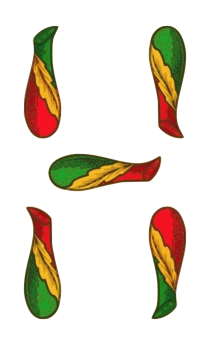
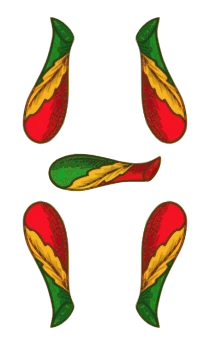
fix: no drawn Scopa games, tied games in the stats, Napoletane 5 and 7 of clubs
GitHub issue #2.

- Scopa ends only when a player reaches the target with the higher score;
  with equal scores another hand is dealt (client reducer and multiplayer
  server), the round summary says so, and two reducer tests cover it.
- The Scopa statistics derive win, loss or tie from the stored scores instead
  of the boolean that counted a tie as a loss; ties get their own count and
  the history shows them as ties. Briscola already recorded ties.
- Napoletane 5 of clubs: the outer batons lean towards the centre line with
  their tips hooking outward and the right column stands the right way up;
  7 of clubs: the middle column stands the right way up, the right column
  hooks inward and the horizontal baton is the right way up. Rebuilt from the
  sprite by local/napoletane/fix-clubs.py (see docs/architecture.md).

diff --git a/src/games/scopa/ScopaApp.tsx b/src/games/scopa/ScopaApp.tsx
@@ -2,7 +2,7 @@ import { useState, useMemo, useCallback, useEffect, useLayoutEffect, useRef } fr
 import { useGame, clearPersistedGame } from './hooks/useGame';
 import { useSettings } from '../../hooks/useSettings';
 import { useSound } from '../../hooks/useSound';
-import { useStats } from '../../hooks/useStats';
+import { useStats, gameOutcome } from '../../hooks/useStats';
 import { useMultiplayer } from '../../hooks/useMultiplayer';
 import { GameLayout } from '../../components/Layout/GameLayout';
 import { PlayerHand } from '../../components/Table/PlayerHand';
@@ -214,6 +214,7 @@ function ScopaApp({ onSwitchGame, pendingInvite, onInviteHandled }: GameAppProps
           gamesPlayed: s.gamesPlayed,
           wins: s.wins,
           losses: s.losses,
+          ties: s.ties,
           winRate: s.winRate,
         },
       };
@@ -240,7 +241,7 @@ function ScopaApp({ onSwitchGame, pendingInvite, onInviteHandled }: GameAppProps
           timestamp: g.timestamp,
           playerScore: g.playerScore,
           opponentScore: g.opponentScore,
-          outcome: g.playerWon ? 'win' : 'loss',
+          outcome: gameOutcome(g),
           modeIndicator: indicator,
         };
       });
@@ -2970,6 +2971,11 @@ function ScopaApp({ onSwitchGame, pendingInvite, onInviteHandled }: GameAppProps
       const oppId = myId === 'player1' ? 'player2' : 'player1';
       // Check if this is the final round (game is over after this round)
       const isFinalRound = !!multiplayer.gameEndData;
+      const cumulative = multiplayer.roundEndData.cumulativeScores;
+      const tieBreakAt =
+        !isFinalRound && multiplayer.targetScore && cumulative[myId] === cumulative[oppId] && cumulative[myId] >= multiplayer.targetScore
+          ? multiplayer.targetScore
+          : undefined;
 
       return (
         <DeckProvider deck={settings.deck}>
@@ -2990,6 +2996,7 @@ function ScopaApp({ onSwitchGame, pendingInvite, onInviteHandled }: GameAppProps
             opponentRequestedNextRound={multiplayer.nextRoundRequests.has(oppId)}
             opponentName={multiplayer.opponentNickname || t.common.opponent}
             isGameOver={isFinalRound}
+            tieBreakAt={tieBreakAt}
             onShowGameEnd={multiplayer.clearRoundEnd}
           />
         </DeckProvider>
@@ -3546,6 +3553,11 @@ function ScopaApp({ onSwitchGame, pendingInvite, onInviteHandled }: GameAppProps
           humanScopaCaptures={activeState.players.human.scopaCaptures}
           cpuScopaCaptures={activeState.players.cpu.scopaCaptures}
           isGameOver={activeState.isGameOver}
+          tieBreakAt={
+            !activeState.isGameOver && activeState.scores.human === activeState.scores.cpu && activeState.scores.human >= activeState.targetScore
+              ? activeState.targetScore
+              : undefined
+          }
           onNextRound={handleNextRound}
           onShowGameEnd={showGameEnd}
           player1AIType={isSpectatorMode ? spectatorAIs.player1 : undefined}

diff --git a/src/hooks/useStats.ts b/src/hooks/useStats.ts
@@ -16,7 +16,7 @@ export interface GameRecord {
   playerScore: number;
   /** Opponent's final score */
   opponentScore: number;
-  /** Whether player won */
+  /** Whether the player won. False for a tie as well: `gameOutcome()` gives the three-way result */
   playerWon: boolean;
   /** Number of rounds played */
   roundsPlayed: number;
@@ -42,7 +42,9 @@ export interface OpponentStats {
   wins: number;
   /** Games lost by player */
   losses: number;
-  /** Win rate (0-1) */
+  /** Games tied (equal final scores) */
+  ties: number;
+  /** Win rate (0-1), ties count as games not won */
   winRate: number;
   /** Total points scored by player */
   totalPlayerScore: number;
@@ -102,6 +104,17 @@ export function isCpuAIType(aiType: ExtendedAIType): boolean {
 /** Check if an AI type is multiplayer */
 export function isMultiplayerType(aiType: ExtendedAIType): boolean {
   return aiType === 'multiplayer';
+}
+
+/**
+ * The outcome of a recorded game, derived from the stored scores. Records
+ * only carry `playerWon`, which is false for a tie as well, so a tie used to
+ * count as a loss in the summaries (GitHub issue #2).
+ */
+export function gameOutcome(game: Pick<GameRecord, 'playerScore' | 'opponentScore'>): 'win' | 'loss' | 'tie' {
+  if (game.playerScore > game.opponentScore) return 'win';
+  if (game.playerScore < game.opponentScore) return 'loss';
+  return 'tie';
 }
 
 /**
@@ -166,8 +179,9 @@ export function useStats() {
     opponentModel?: string
   ): OpponentStats => {
     const games = getGamesAgainst(opponentType, opponentModel);
-    const wins = games.filter(g => g.playerWon).length;
-    const losses = games.length - wins;
+    const wins = games.filter(g => gameOutcome(g) === 'win').length;
+    const ties = games.filter(g => gameOutcome(g) === 'tie').length;
+    const losses = games.length - wins - ties;
 
     return {
       opponentType,
@@ -175,6 +189,7 @@ export function useStats() {
       gamesPlayed: games.length,
       wins,
       losses,
+      ties,
       winRate: games.length > 0 ? wins / games.length : 0,
       totalPlayerScore: games.reduce((sum, g) => sum + g.playerScore, 0),
       totalOpponentScore: games.reduce((sum, g) => sum + g.opponentScore, 0),

diff --git a/src/games/scopa/reducer.test.ts b/src/games/scopa/reducer.test.ts
@@ -444,6 +444,34 @@ describe('Game State Management', () => {
       expect(newState.status).toBe('roundEnd');
       expect(newState.isGameOver).toBe(true);
     });
+
+    // Scopa has no drawn games: equal scores at or above the target mean
+    // another hand (issue #2). Empty piles score 0-0, so the cumulative
+    // scores below are the final ones.
+    const tiedRoundEnd = (scores: { human: number; cpu: number }): GameState => ({
+      status: 'roundEnd',
+      round: { deck: [], table: [], currentPlayer: 'human', dealer: 'cpu', lastCapture: null },
+      players: {
+        human: { hand: [], captured: [], scopaCount: 0, scopaCaptures: [] },
+        cpu: { hand: [], captured: [], scopaCount: 0, scopaCaptures: [] },
+      },
+      scores,
+      roundNumber: 4,
+      roundHistory: [],
+      targetScore: 11,
+    });
+
+    it('should not end the game when both players are tied at or above the target', () => {
+      const newState = gameReducer(tiedRoundEnd({ human: 11, cpu: 11 }), { type: 'END_ROUND' });
+      expect(newState.scores).toEqual({ human: 11, cpu: 11 });
+      expect(newState.status).toBe('roundEnd');
+      expect(newState.isGameOver).toBe(false);
+    });
+
+    it('should end the game when both players pass the target with different scores', () => {
+      const newState = gameReducer(tiedRoundEnd({ human: 12, cpu: 11 }), { type: 'END_ROUND' });
+      expect(newState.isGameOver).toBe(true);
+    });
   });
 
   describe('NEXT_ROUND action', () => {

diff --git a/src/components/UI/RoundEndScreen.tsx b/src/components/UI/RoundEndScreen.tsx
@@ -96,6 +96,8 @@ interface RoundEndScreenProps {
   humanScopaCaptures: Card[][];
   cpuScopaCaptures: Card[][];
   isGameOver?: boolean;
+  /** The target score when the game goes on only because the scores are tied at or above it (Scopa has no drawn games). */
+  tieBreakAt?: number;
   onNextRound: () => void;
   onShowGameEnd?: () => void;
   /** Player 1 name (defaults to "You", fallback if AI type not provided) */
@@ -174,6 +176,7 @@ export function RoundEndScreen({
   humanScopaCaptures,
   cpuScopaCaptures,
   isGameOver,
+  tieBreakAt,
   onNextRound,
   onShowGameEnd,
   player1Name,
@@ -418,6 +421,10 @@ export function RoundEndScreen({
             <span className={styles.scoreValue}>{cumulativeCpu}</span>
           </div>
         </div>
+
+        {tieBreakAt !== undefined && !isGameOver && (
+          <p className={styles.waitingMessage}>{t.roundEnd.tieBreak(tieBreakAt)}</p>
+        )}
 
         {/* Multiplayer waiting message */}
         {isMultiplayer && (

diff --git a/src/games/scopa/reducer.ts b/src/games/scopa/reducer.ts
@@ -222,10 +222,13 @@ function handleEndRound(state: GameState): GameState {
   const newHumanScore = finalState.scores.human + roundScores.human.total;
   const newCpuScore = finalState.scores.cpu + roundScores.cpu.total;
 
-  // Check if game should end
+  // The game ends when a player reaches the target with the higher score.
+  // Scopa has no drawn games: with equal scores at or above the target,
+  // another hand is played to break the tie (the multiplayer server applies
+  // the same rule in scopa-server/src/room.ts).
   const humanReachedTarget = newHumanScore >= finalState.targetScore;
   const cpuReachedTarget = newCpuScore >= finalState.targetScore;
-  const isGameOver = humanReachedTarget || cpuReachedTarget;
+  const isGameOver = (humanReachedTarget || cpuReachedTarget) && newHumanScore !== newCpuScore;
 
   // Add to round history
   const historyEntry = {

diff --git a/scopa-server/src/room.ts b/scopa-server/src/room.ts
@@ -354,15 +354,11 @@ export function endRound(room: RoomState): {
   let gameOver = false;
   let winner: MultiplayerPlayerId | 'tie' | undefined;
 
-  if (p1Score >= targetScore || p2Score >= targetScore) {
+  // No drawn games in Scopa: with equal scores at or above the target another
+  // hand is played to break the tie (the client reducer applies the same rule).
+  if ((p1Score >= targetScore || p2Score >= targetScore) && p1Score !== p2Score) {
     gameOver = true;
-    if (p1Score > p2Score) {
-      winner = 'player1';
-    } else if (p2Score > p1Score) {
-      winner = 'player2';
-    } else {
-      winner = 'tie';
-    }
+    winner = p1Score > p2Score ? 'player1' : 'player2';
     state.status = 'gameEnd';
     state.winner = winner;
   }

diff --git a/src/hooks/useStats.test.ts b/src/hooks/useStats.test.ts
@@ -1,0 +1,18 @@
+import { describe, it, expect } from 'vitest';
+import { gameOutcome } from './useStats';
+
+// A record stores both scores plus `playerWon`, which is false for a tie as
+// well; the summaries derive the three-way outcome from the scores (issue #2).
+describe('gameOutcome', () => {
+  it('is a win when the player scored more', () => {
+    expect(gameOutcome({ playerScore: 11, opponentScore: 7 })).toBe('win');
+  });
+
+  it('is a loss when the opponent scored more', () => {
+    expect(gameOutcome({ playerScore: 9, opponentScore: 12 })).toBe('loss');
+  });
+
+  it('is a tie with equal scores, not a loss', () => {
+    expect(gameOutcome({ playerScore: 11, opponentScore: 11 })).toBe('tie');
+  });
+});

diff --git a/src/games/scopa/ai/prompts.ts b/src/games/scopa/ai/prompts.ts
@@ -26,7 +26,7 @@ SCORING (calculated at end of each round):
   Prime values: 7=21, 6=18, Asso=16, 5=15, 4=14, 3=13, 2=12, face cards=10
 - Scopa: 1 point EACH TIME you clear all cards from the table EXCEPT for the last hand of the round
 
-First to reach target score wins.`;
+First to reach the target score with the higher total wins; equal scores at the target are settled by another hand.`;
 
 /**
  * System instruction for multi-turn chat sessions (Gemini, OpenAI)

diff --git a/src/i18n/it.ts b/src/i18n/it.ts
@@ -258,6 +258,7 @@ export const it: Translation = {
     nextRound: 'Prossima mano',
     seeResults: 'Vedi risultati',
     waiting: 'In attesa…',
+    tieBreak: (n: number) => `Pareggio a ${n}: un'altra mano decide la partita`,
   },
 
   rules: {

diff --git a/src/i18n/en.ts b/src/i18n/en.ts
@@ -259,6 +259,7 @@ export const en = {
     nextRound: 'Next Round',
     seeResults: 'See Results',
     waiting: 'Waiting...',
+    tieBreak: (n: number) => `Tied at ${n}: one more hand decides the game`,
   },
 
   rules: {

diff --git a/docs/architecture.md b/docs/architecture.md
@@ -824,6 +824,24 @@ const response = await client.beta.messages.create({
 - Card back uses `--card-back-scale` and `--card-back-offset` CSS variables for sizing
 - Card face scaling uses `--card-img-scale` and `--card-img-offset` CSS variables
 - Suit SVGs from Wikimedia Commons in `public/cards/napoletane/suits/` for score icons
+- The sprite's suit ids are swapped: its `N_spade` groups hold the clubs and
+  its `N_club` groups the swords, so `local/napoletane/individual-noborders/
+  swords-N.svg` is the source of `public/cards/napoletane/clubs-N.webp` (the
+  WebP files were swapped in January 2026; the sources were not renamed)
+- 5 and 7 of clubs corrected 2026-11-08 (GitHub issue #2). The real cards are
+  point-symmetric (the bottom row is the top row turned 180° about the card
+  centre) and mix handle-up and handle-down batons within a row, some of
+  them mirrored. The sprite's 5 had straight outer batons (the real ones lean,
+  cut ends towards the centre line, their tips hooking outward) and its right
+  column standing the wrong way up; its 7 had the middle column the wrong way
+  up, the right column hooking outward instead of inward and the horizontal
+  baton upside down; its 6 matched. `local/napoletane/fix-clubs.py`
+  rebuilds the SVGs from `swords-N.original.svg` (the untouched sprite
+  extraction) against a per-card spec read off photos of the real cards,
+  baton by baton (which of the sprite's two drawings, mirrored or not; the
+  bottom row is the top row turned 180°), and renders the WebP files the way
+  the originals were made: the 70 × 115 CSS px card at 3× in headless
+  Chromium, 210 × 345 RGBA
 
 **Siciliane Deck (Phase 19):**
 - Suit SVGs from Wikimedia Commons (Tarocco Siciliano) in `public/cards/siciliane/suits/`
